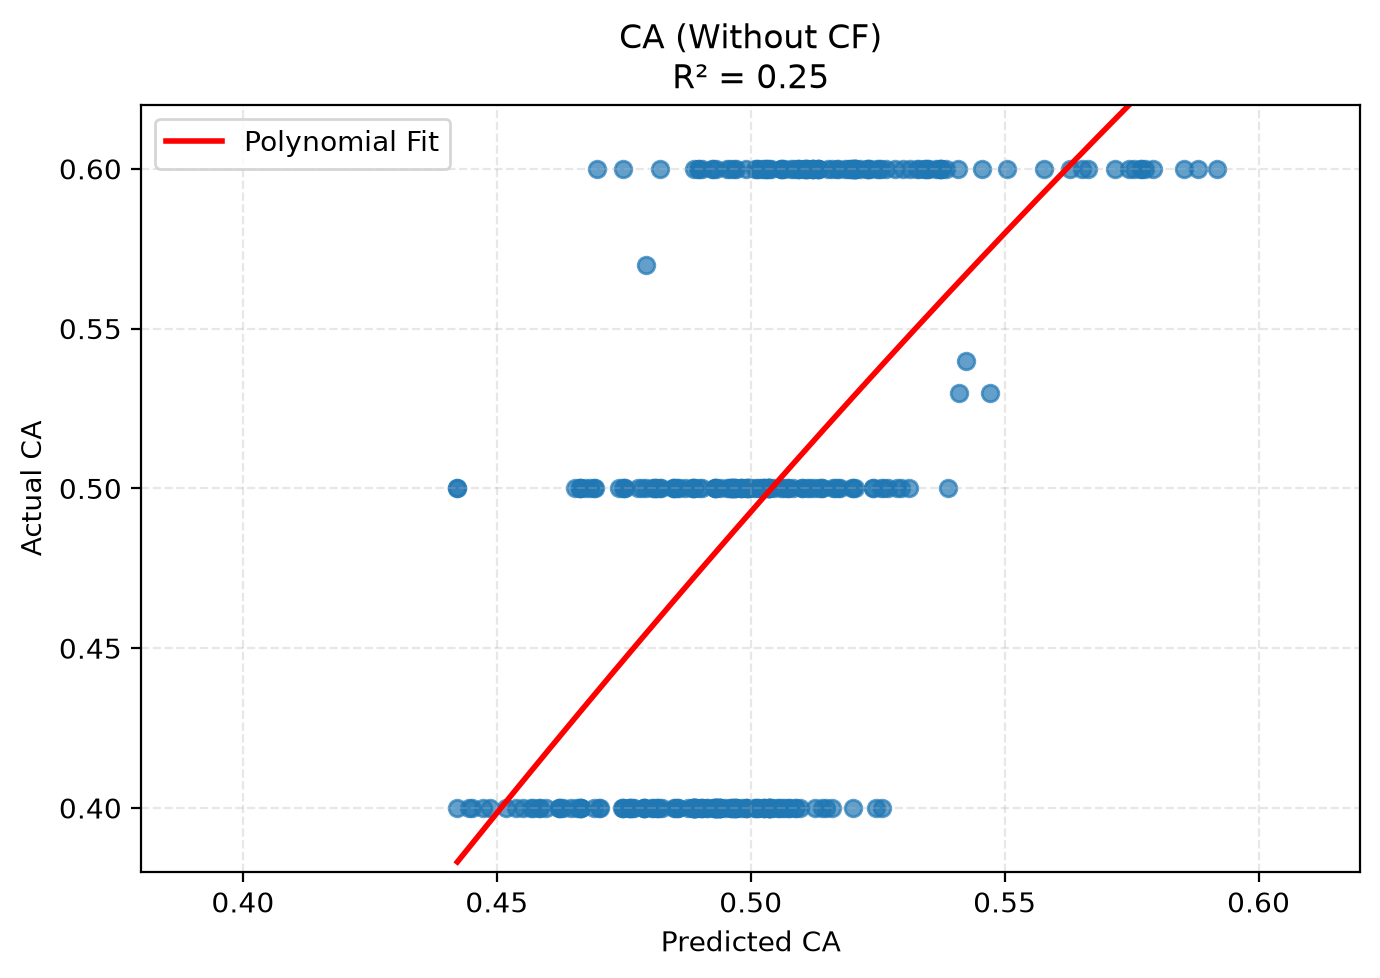
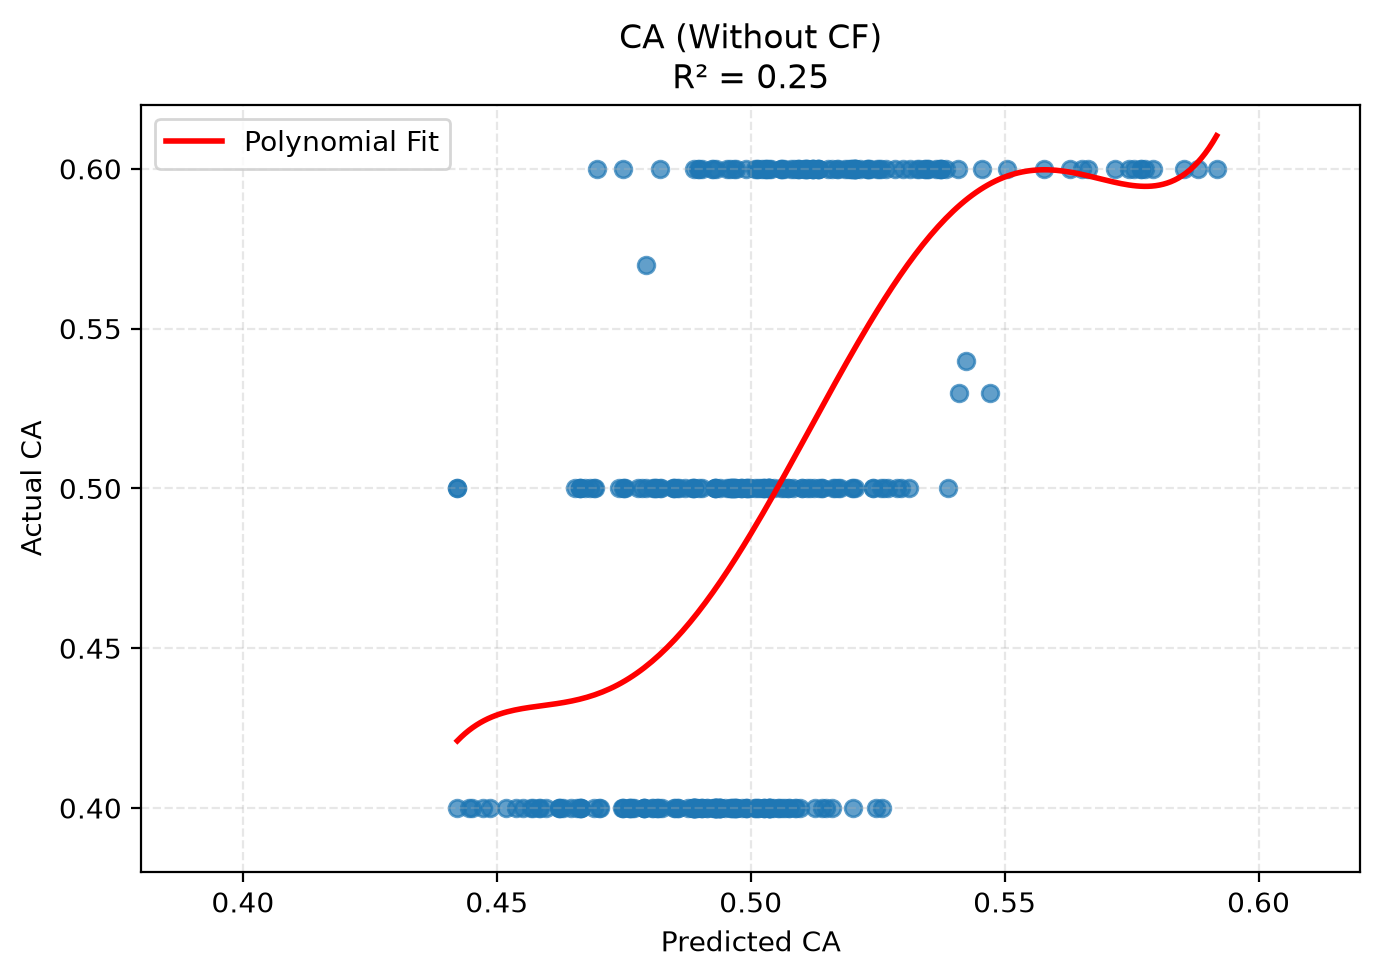
initall commit

diff --git a/without_agg_type_and_without_cf_final_actual_program_for_phd_regression_1620.py b/without_agg_type_and_without_cf_final_actual_program_for_phd_regression_1620.py
@@ -73,7 +73,7 @@ TARGET_LABELS = {
 TEST_SIZE = 0.2
 RANDOM_STATE = 42
 N_ESTIMATORS = 100
-POLY_DEGREE = 2     # degree of the red trend curve in actual-vs-predicted plots
+POLY_DEGREE = 5   # degree of the red trend curve in actual-vs-predicted plots
 DPI = 200
 
 np.set_printoptions(precision=2, suppress=True)
